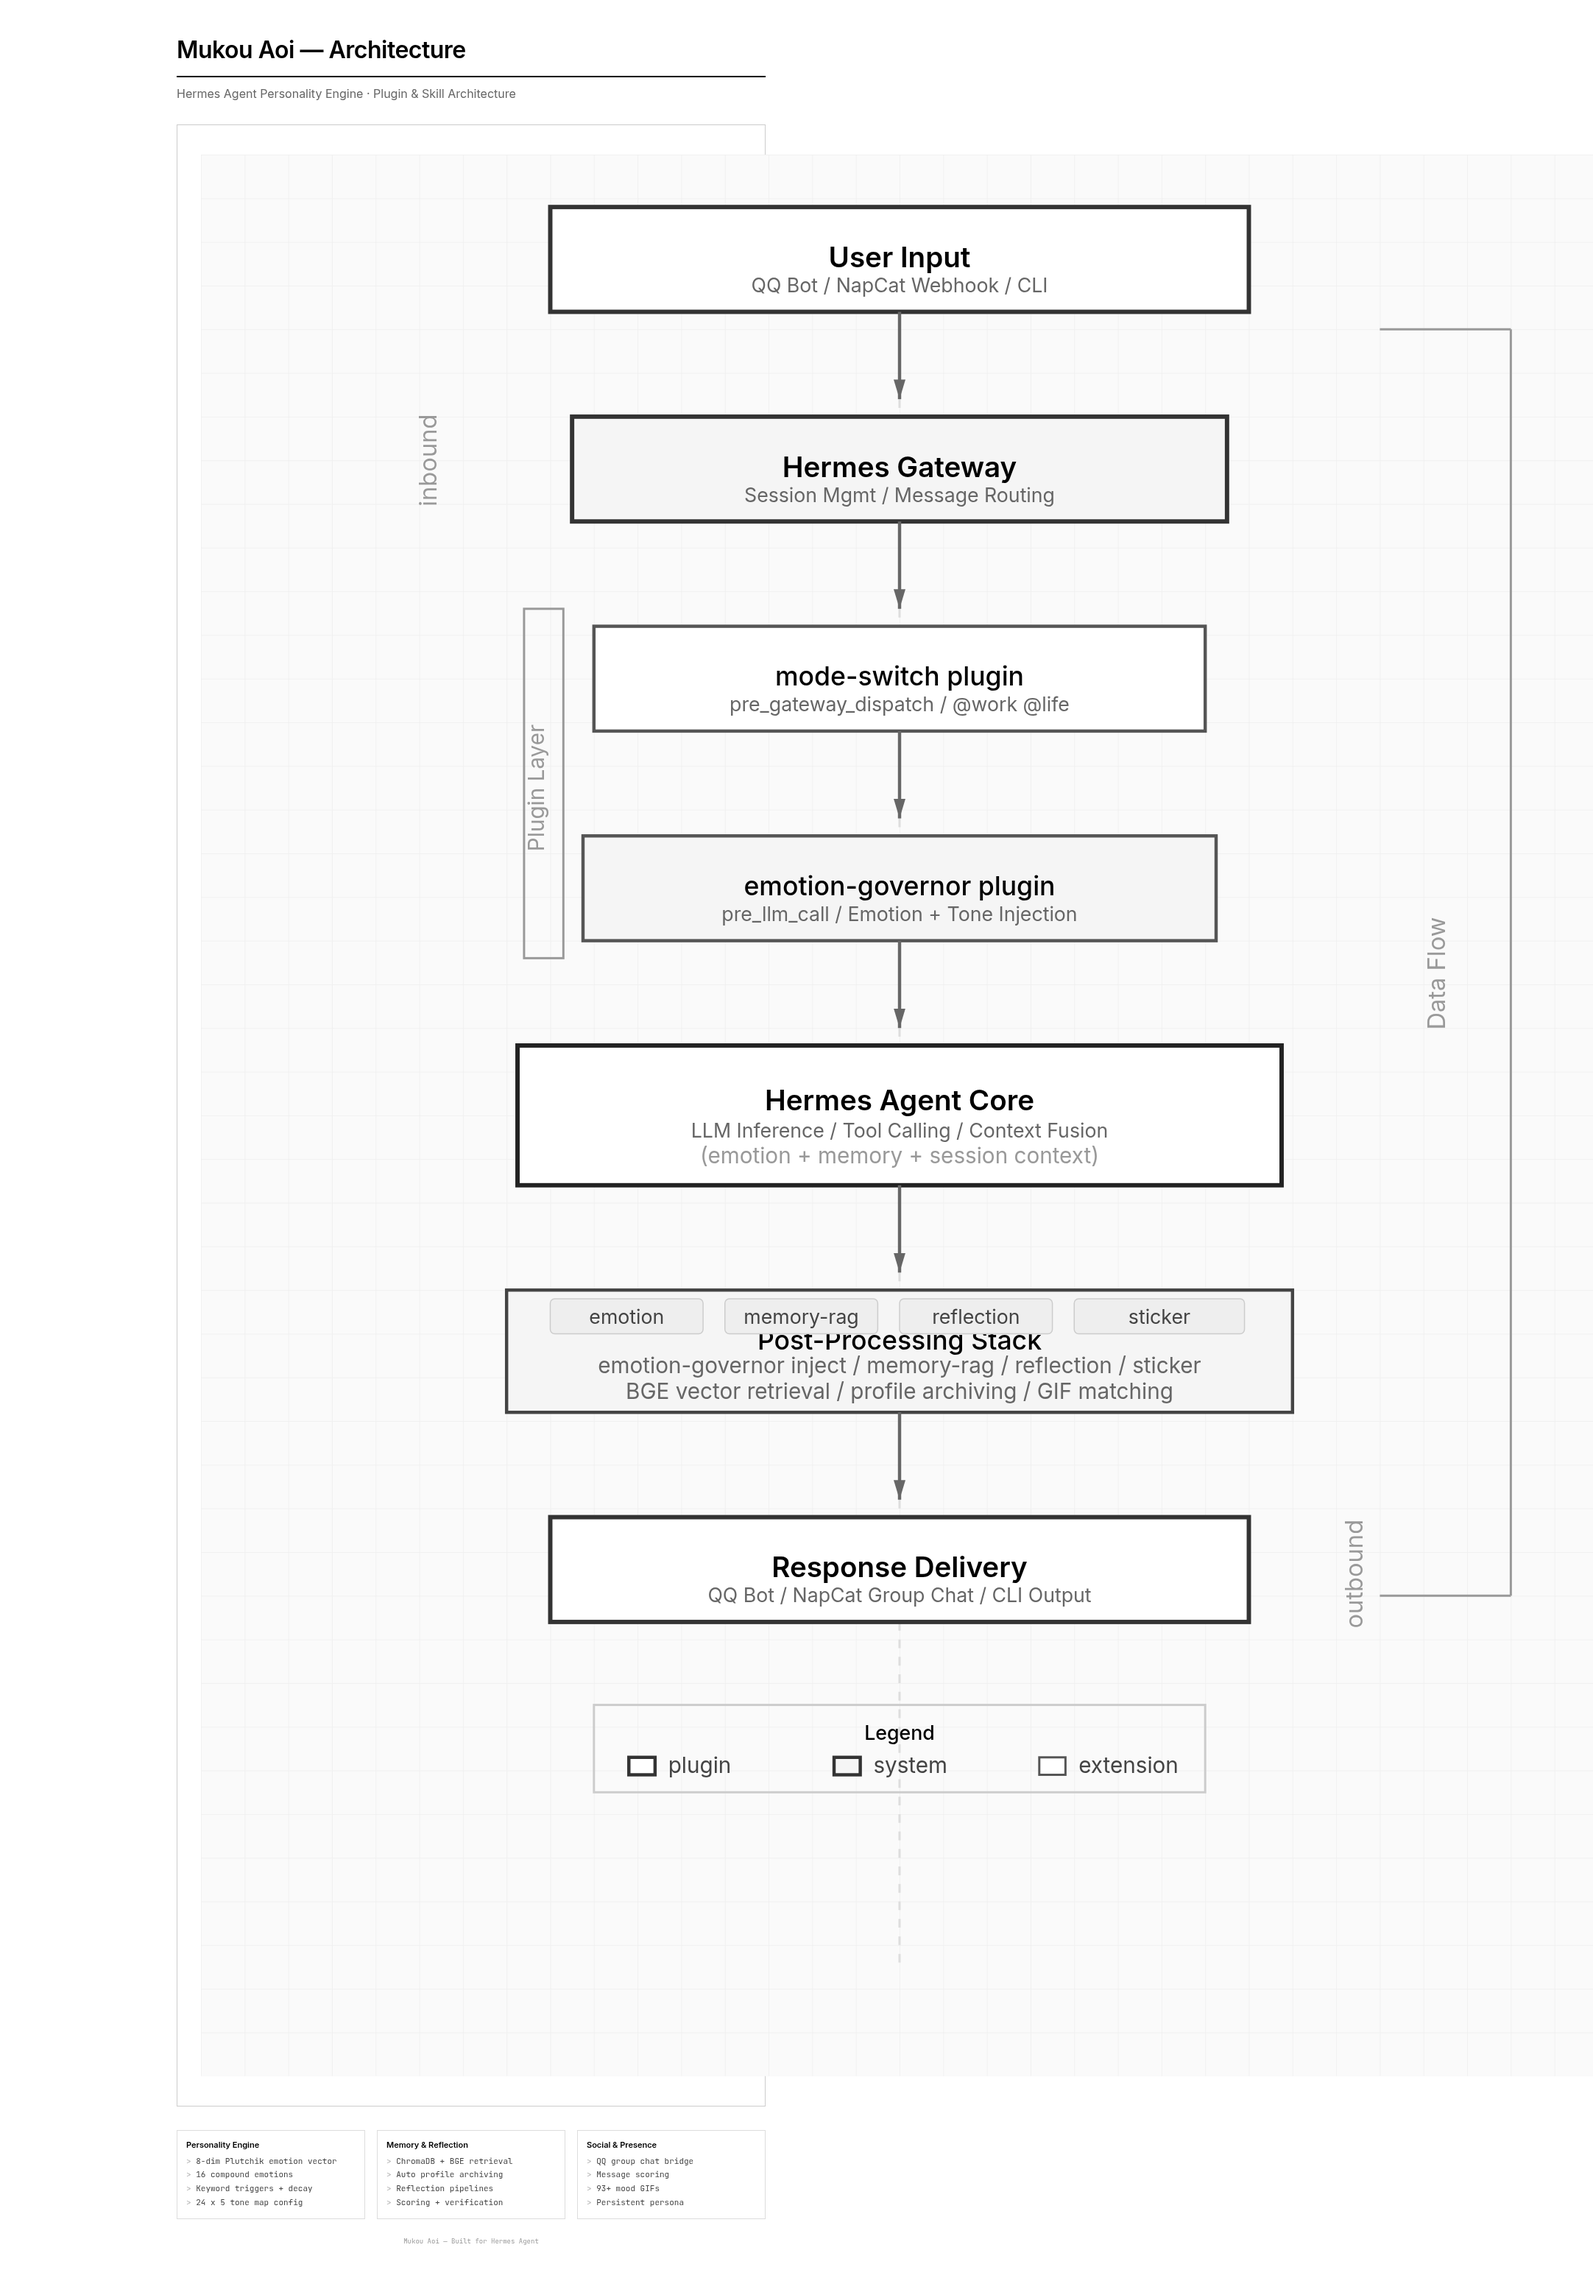
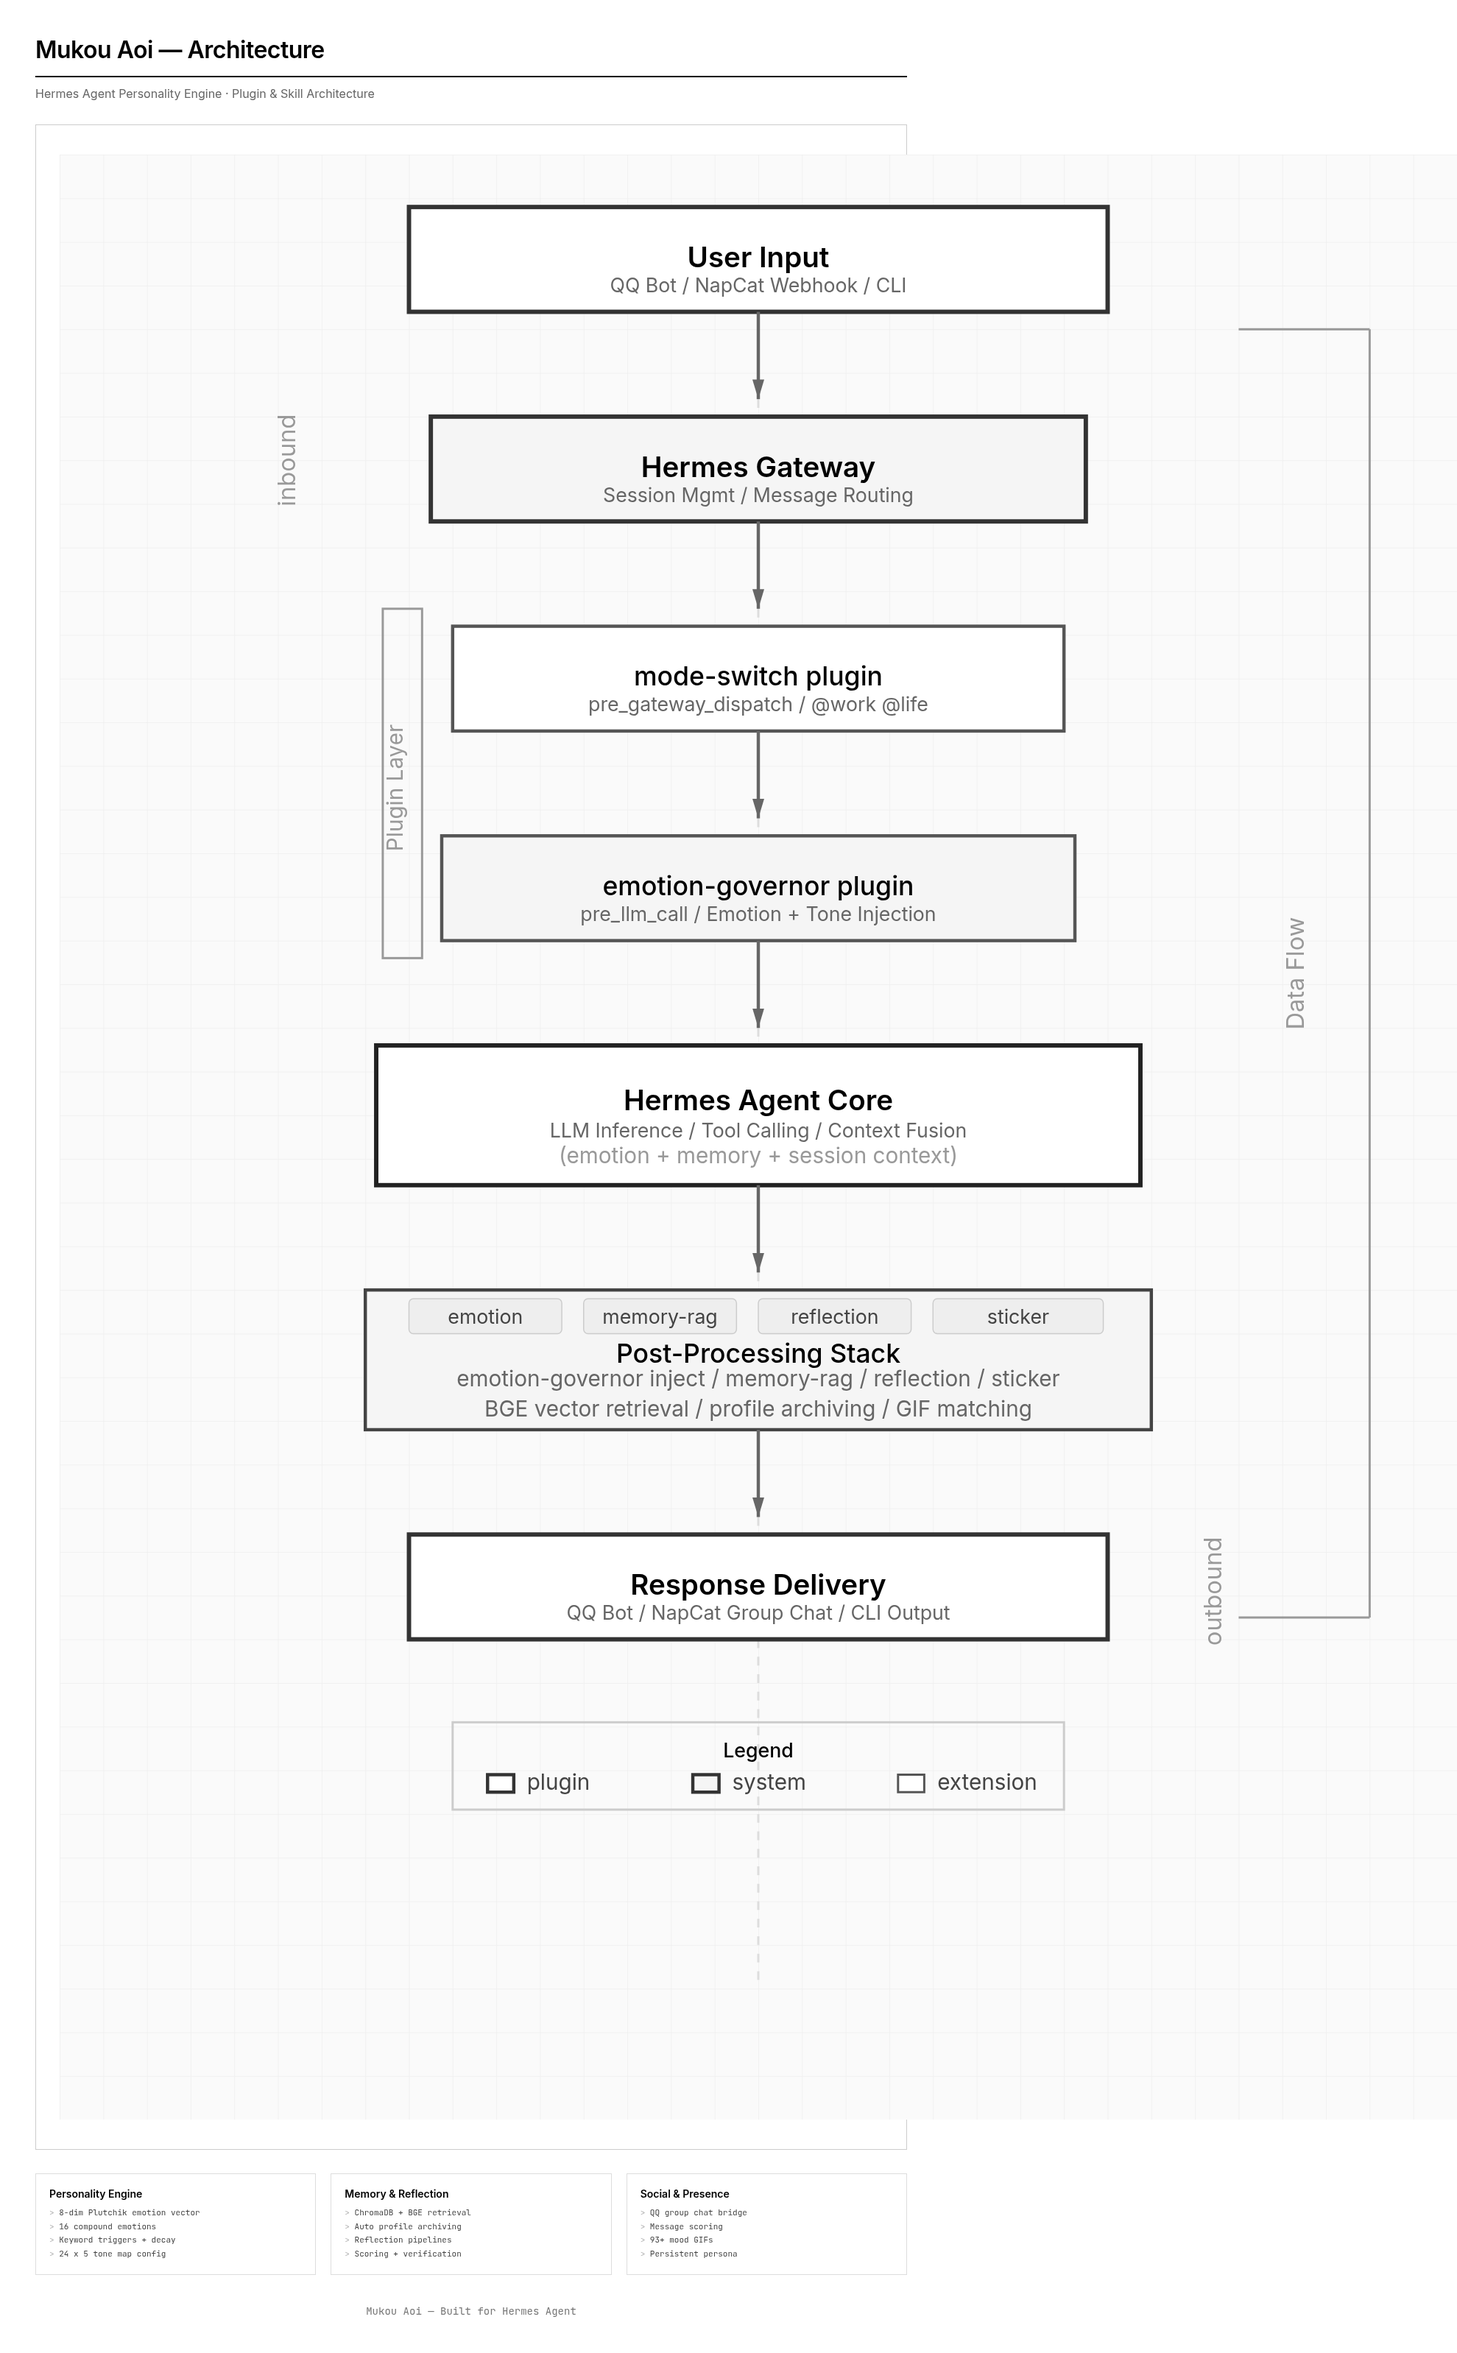
fix: architecture diagram layout — Post-Processing overlap, info card alignment, footer 14px

diff --git a/assets/architecture-bw.html b/assets/architecture-bw.html
@@ -40,14 +40,15 @@
     margin-bottom: 16px;
   }
   .info-grid {
-    display: grid; grid-template-columns: repeat(3, 1fr); gap: 16px;
+    display: grid; grid-template-columns: repeat(3, 1fr); gap: 20px;
+    max-width: 700px; margin: 0 auto;
   }
   .info-item {
-    border: 1px solid #ddd; padding: 12px;
+    border: 1px solid #ddd; padding: 18px;
   }
   .info-item h3 {
-    font-size: 11px; font-weight: 600; color: #000;
-    margin-bottom: 6px;
+    font-size: 14px; font-weight: 600; color: #000;
+    margin-bottom: 8px;
   }
   .info-item ul { list-style: none; }
   .info-item li {
@@ -60,8 +61,8 @@
   .footer {
     text-align: center;
     font-family: 'JetBrains Mono', monospace;
-    font-size: 9px; color: #999;
-    margin-top: 24px;
+    font-size: 14px; color: #777;
+    margin-top: 40px;
   }
 </style>
 </head>
@@ -71,7 +72,7 @@
   <div class="subtitle">Hermes Agent Personality Engine &middot; Plugin &amp; Skill Architecture</div>
 
   <div class="diagram-box">
-    <svg viewBox="0 0 640 880" xmlns="http://www.w3.org/2000/svg" font-family="Inter, sans-serif">
+    <svg viewBox="0 0 640 900" xmlns="http://www.w3.org/2000/svg" font-family="Inter, sans-serif">
       <!-- Light grid -->
       <defs>
         <pattern id="grid" width="20" height="20" patternUnits="userSpaceOnUse">
@@ -81,15 +82,15 @@
           <path d="M 0 0 L 10 3 L 0 6 z" fill="#666"/>
         </marker>
       </defs>
-      <rect width="640" height="880" fill="#fafafa"/>
-      <rect width="640" height="880" fill="url(#grid)"/>
+      <rect width="640" height="900" fill="#fafafa"/>
+      <rect width="640" height="900" fill="url(#grid)"/>
 
       <!-- ==================== -->
       <!-- Data Flow Background -->
       <!-- ==================== -->
 
       <!-- Vertical flow line -->
-      <line x1="320" y1="72" x2="320" y2="830" stroke="#ddd" stroke-width="1" stroke-dasharray="4,4"/>
+      <line x1="320" y1="72" x2="320" y2="838" stroke="#ddd" stroke-width="1" stroke-dasharray="4,4"/>
 
       <!-- ==================== -->
       <!-- Layer 1: Input -->
@@ -144,10 +145,10 @@
       <!-- ==================== -->
       <!-- Layer 6: Skills -->
       <!-- ==================== -->
-      <rect x="140" y="520" width="360" height="56" rx="0" fill="#f5f5f5" stroke="#444" stroke-width="1.5"/>
-      <text x="320" y="544" font-size="12" font-weight="500" fill="#000" text-anchor="middle" dominant-baseline="middle">Post-Processing Stack</text>
-      <text x="320" y="558" font-size="10" fill="#666" text-anchor="middle">emotion-governor inject / memory-rag / reflection / sticker</text>
-      <text x="320" y="570" font-size="10" fill="#666" text-anchor="middle">BGE vector retrieval / profile archiving / GIF matching</text>
+      <rect x="140" y="520" width="360" height="64" rx="0" fill="#f5f5f5" stroke="#444" stroke-width="1.5"/>
+      <text x="320" y="550" font-size="12" font-weight="500" fill="#000" text-anchor="middle" dominant-baseline="middle">Post-Processing Stack</text>
+      <text x="320" y="564" font-size="10" fill="#666" text-anchor="middle">emotion-governor inject / memory-rag / reflection / sticker</text>
+      <text x="320" y="578" font-size="10" fill="#666" text-anchor="middle">BGE vector retrieval / profile archiving / GIF matching</text>
 
       <!-- Sub-boxes inside skills -->
       <rect x="160" y="524" width="70" height="16" rx="2" fill="#eee" stroke="#ccc" stroke-width="0.5"/>
@@ -159,39 +160,39 @@
       <rect x="400" y="524" width="78" height="16" rx="2" fill="#eee" stroke="#ccc" stroke-width="0.5"/>
       <text x="439" y="533" font-size="9" fill="#444" text-anchor="middle" dominant-baseline="middle">sticker</text>
 
-      <line x1="320" y1="576" x2="320" y2="616" stroke="#666" stroke-width="1.5" marker-end="url(#arrow)"/>
+      <line x1="320" y1="584" x2="320" y2="624" stroke="#666" stroke-width="1.5" marker-end="url(#arrow)"/>
 
       <!-- ==================== -->
       <!-- Layer 7: Output -->
       <!-- ==================== -->
-      <rect x="160" y="624" width="320" height="48" rx="0" fill="#fff" stroke="#333" stroke-width="2"/>
-      <text x="320" y="648" font-size="13" font-weight="600" fill="#000" text-anchor="middle" dominant-baseline="middle">Response Delivery</text>
-      <text x="320" y="663" font-size="9" fill="#666" text-anchor="middle">QQ Bot / NapCat Group Chat / CLI Output</text>
+      <rect x="160" y="632" width="320" height="48" rx="0" fill="#fff" stroke="#333" stroke-width="2"/>
+      <text x="320" y="656" font-size="13" font-weight="600" fill="#000" text-anchor="middle" dominant-baseline="middle">Response Delivery</text>
+      <text x="320" y="671" font-size="9" fill="#666" text-anchor="middle">QQ Bot / NapCat Group Chat / CLI Output</text>
 
       <!-- ==================== -->
       <!-- Side labels -->
       <!-- ==================== -->
       <text x="108" y="140" font-size="11" fill="#999" text-anchor="middle" transform="rotate(-90,108,140)">inbound</text>
-      <text x="532" y="650" font-size="11" fill="#999" text-anchor="middle" transform="rotate(-90,532,650)">outbound</text>
+      <text x="532" y="658" font-size="11" fill="#999" text-anchor="middle" transform="rotate(-90,532,658)">outbound</text>
 
       <!-- ==================== -->
       <!-- Legend -->
       <!-- ==================== -->
-      <rect x="180" y="710" width="280" height="40" rx="0" fill="none" stroke="#ccc" stroke-width="1"/>
-      <text x="320" y="726" font-size="9" font-weight="500" fill="#000" text-anchor="middle">Legend</text>
-      <rect x="196" y="734" width="12" height="8" rx="0" fill="#fff" stroke="#333" stroke-width="1.5"/>
-      <text x="214" y="741" font-size="10" fill="#444">plugin</text>
-      <rect x="290" y="734" width="12" height="8" rx="0" fill="#f5f5f5" stroke="#333" stroke-width="1.5"/>
-      <text x="308" y="741" font-size="10" fill="#444">system</text>
-      <rect x="384" y="734" width="12" height="8" rx="0" fill="#fff" stroke="#555" stroke-width="1"/>
-      <text x="402" y="741" font-size="10" fill="#444">extension</text>
+      <rect x="180" y="718" width="280" height="40" rx="0" fill="none" stroke="#ccc" stroke-width="1"/>
+      <text x="320" y="734" font-size="9" font-weight="500" fill="#000" text-anchor="middle">Legend</text>
+      <rect x="196" y="742" width="12" height="8" rx="0" fill="#fff" stroke="#333" stroke-width="1.5"/>
+      <text x="214" y="749" font-size="10" fill="#444">plugin</text>
+      <rect x="290" y="742" width="12" height="8" rx="0" fill="#f5f5f5" stroke="#333" stroke-width="1.5"/>
+      <text x="308" y="749" font-size="10" fill="#444">system</text>
+      <rect x="384" y="742" width="12" height="8" rx="0" fill="#fff" stroke="#555" stroke-width="1"/>
+      <text x="402" y="749" font-size="10" fill="#444">extension</text>
 
       <!-- ==================== -->
       <!-- Side annotation: data flow arrow -->
       <!-- ==================== -->
       <line x1="540" y1="80" x2="600" y2="80" stroke="#999" stroke-width="1"/>
-      <line x1="600" y1="80" x2="600" y2="660" stroke="#999" stroke-width="1"/>
-      <line x1="540" y1="660" x2="600" y2="660" stroke="#999" stroke-width="1"/>
+      <line x1="600" y1="80" x2="600" y2="670" stroke="#999" stroke-width="1"/>
+      <line x1="540" y1="670" x2="600" y2="670" stroke="#999" stroke-width="1"/>
       <text x="570" y="375" font-size="11" fill="#999" text-anchor="middle" transform="rotate(-90,570,375)">Data Flow</text>
     </svg>
   </div>
